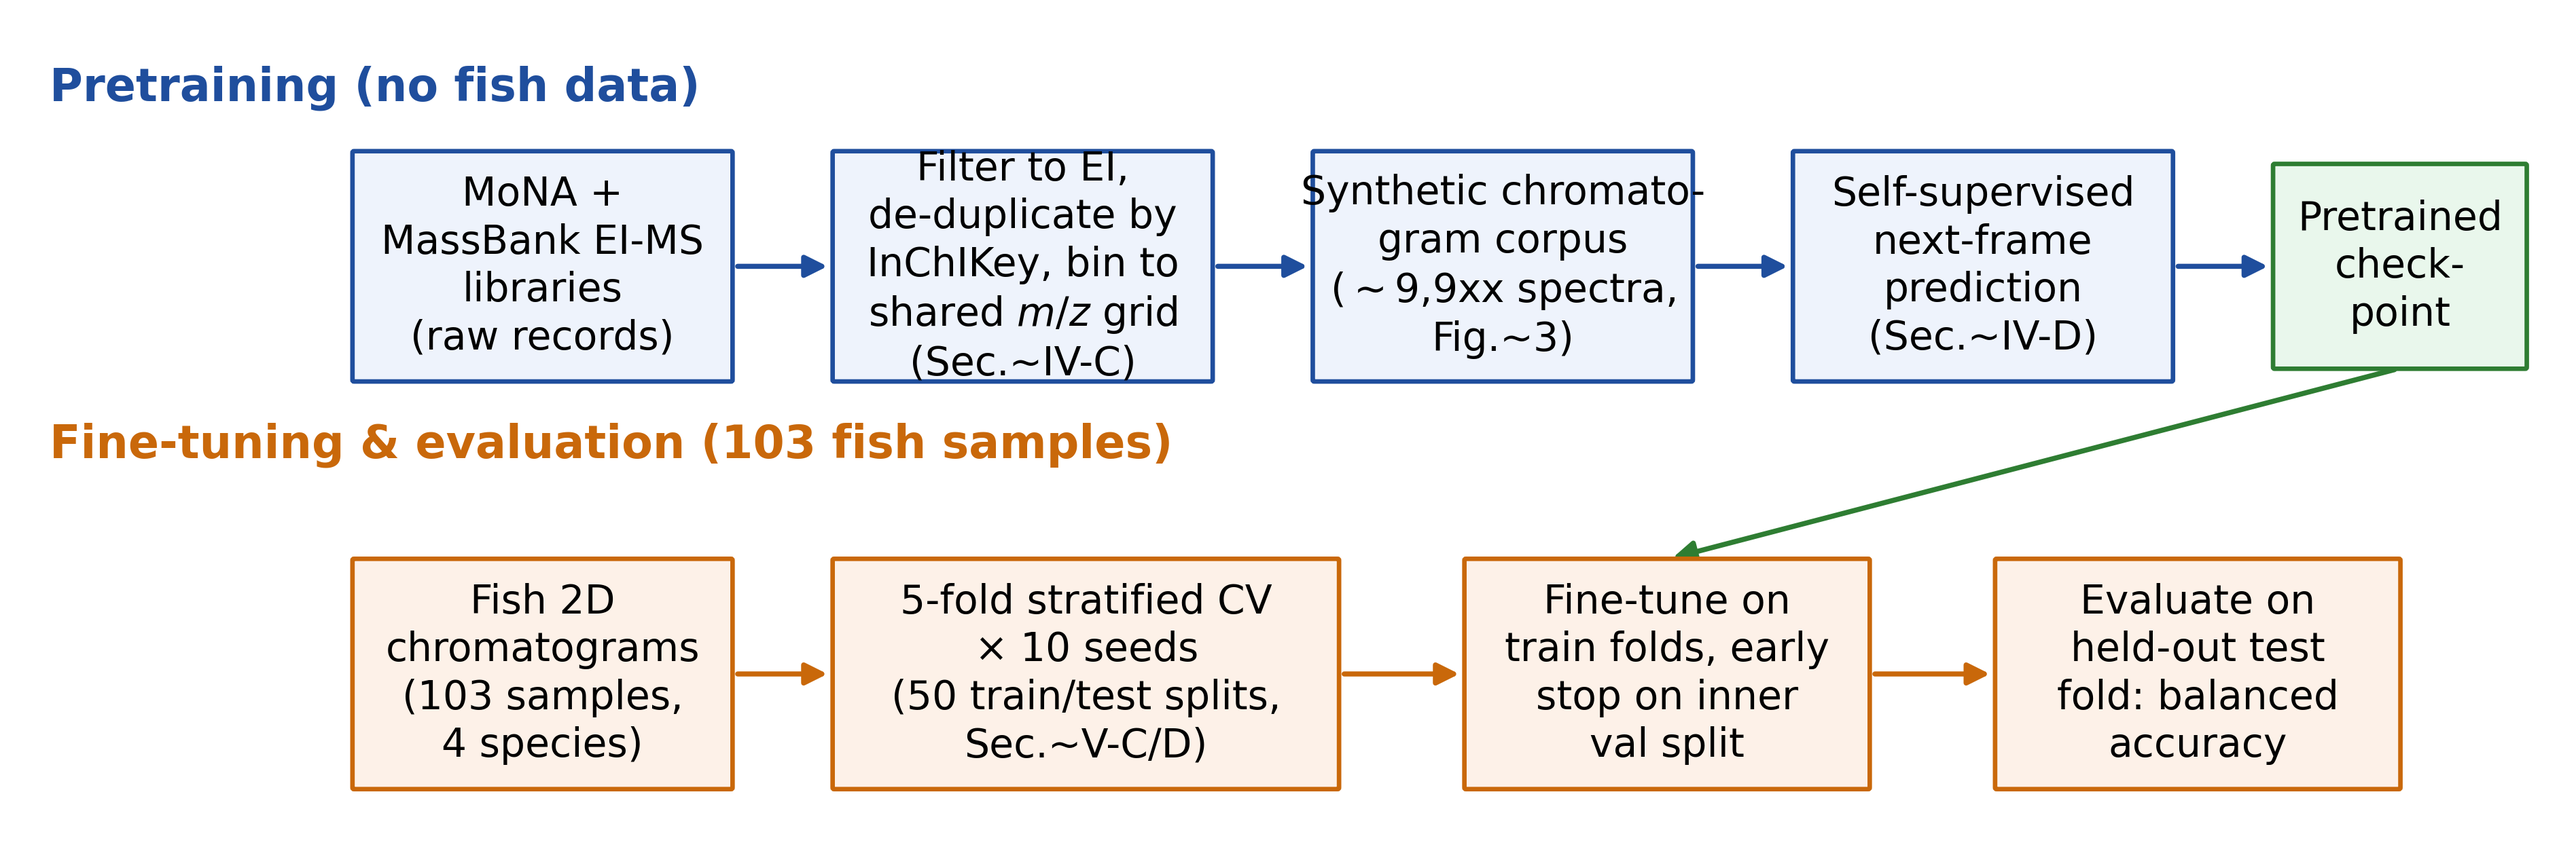
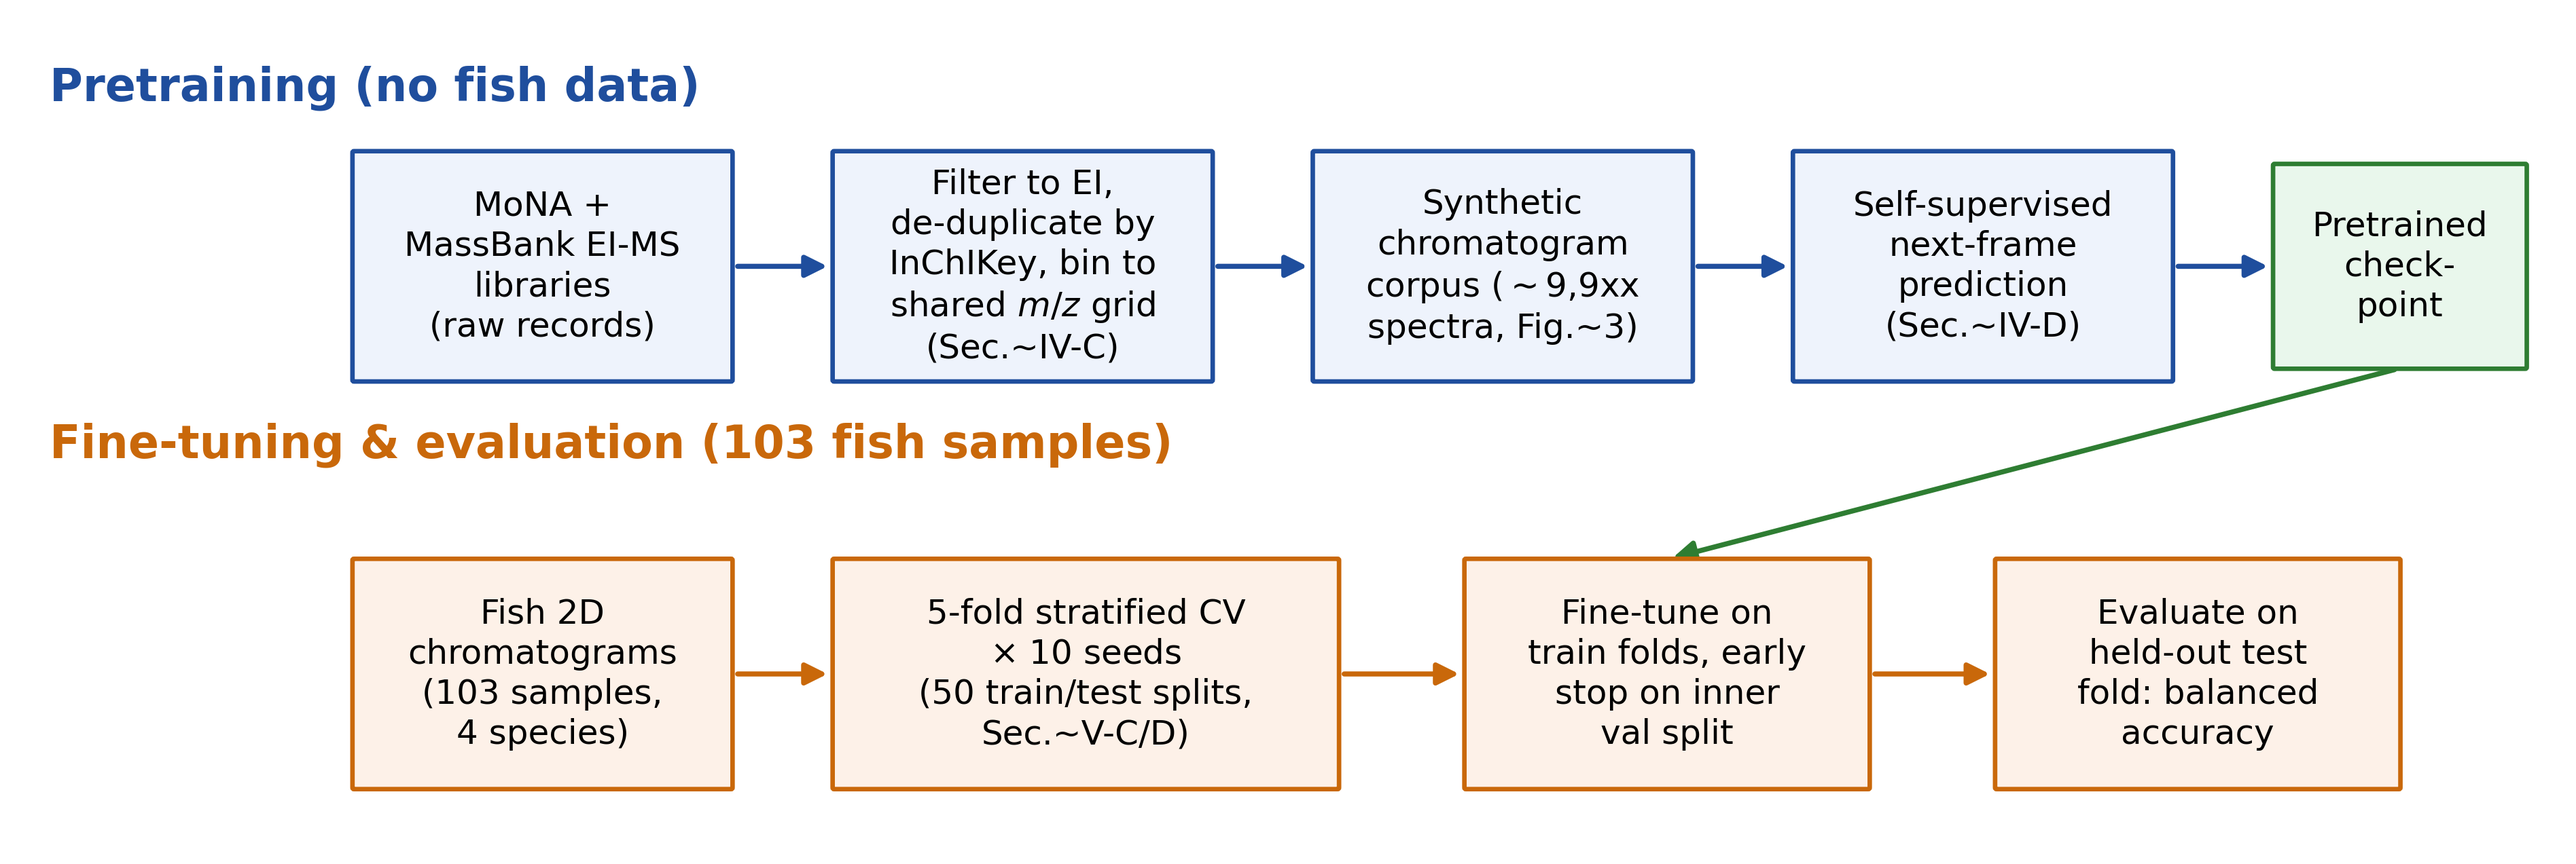
Fix pipeline figure: box text overflowed box borders
"Filter to EI, de-duplicate..." (5 lines) touched the top/bottom
edges, and "Synthetic chromato-gram corpus" (hyphenated mid-word)
ran past the left/right edges. Reduced box text to 12pt (was 14pt,
same as the row titles -- too large once a box needs 5 lines) and
rewrapped the synthetic-corpus text at word boundaries. Verified by
measuring rendered text width/height against each box's pixel size
before and after.

diff --git a/figs/generate_pipeline.py b/figs/generate_pipeline.py
@@ -39,7 +39,10 @@ CKPT_COLOR = "#e9f7ec"
 CKPT_EDGE = "#2e7d32"
 
 
-def box(ax, xy, w, h, text, fc, ec, fontsize=FS_BOX, lw=1.6):
+BOX_FS = FS_BOX - 2  # smaller than the row-label font: five-line boxes need the room
+
+
+def box(ax, xy, w, h, text, fc, ec, fontsize=BOX_FS, lw=1.6):
     x, y = xy
     patch = FancyBboxPatch((x, y), w, h,
                             boxstyle="round,pad=0.02,rounding_size=0.06",
@@ -75,7 +78,7 @@ b2 = box(ax, (32, 18), 15, 9,
          "Filter to EI,\nde-duplicate by\nInChIKey, bin to\nshared $m/z$ grid\n(Sec.~IV-C)",
          TOP_COLOR, TOP_EDGE)
 b3 = box(ax, (51, 18), 15, 9,
-         "Synthetic chromato-\ngram corpus\n($\\sim$9,9xx spectra,\nFig.~3)",
+         "Synthetic\nchromatogram\ncorpus ($\\sim$9,9xx\nspectra, Fig.~3)",
          TOP_COLOR, TOP_EDGE)
 b4 = box(ax, (70, 18), 15, 9,
          "Self-supervised\nnext-frame\nprediction\n(Sec.~IV-D)",
